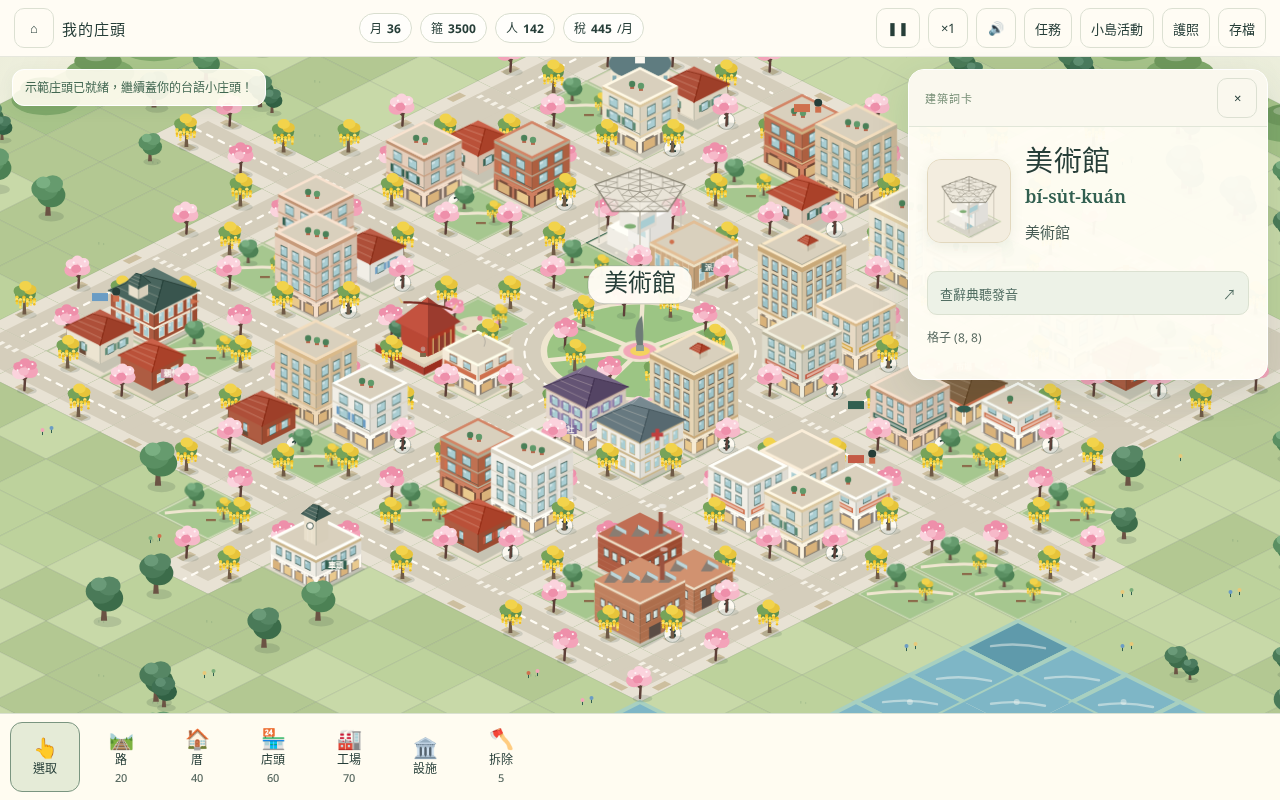
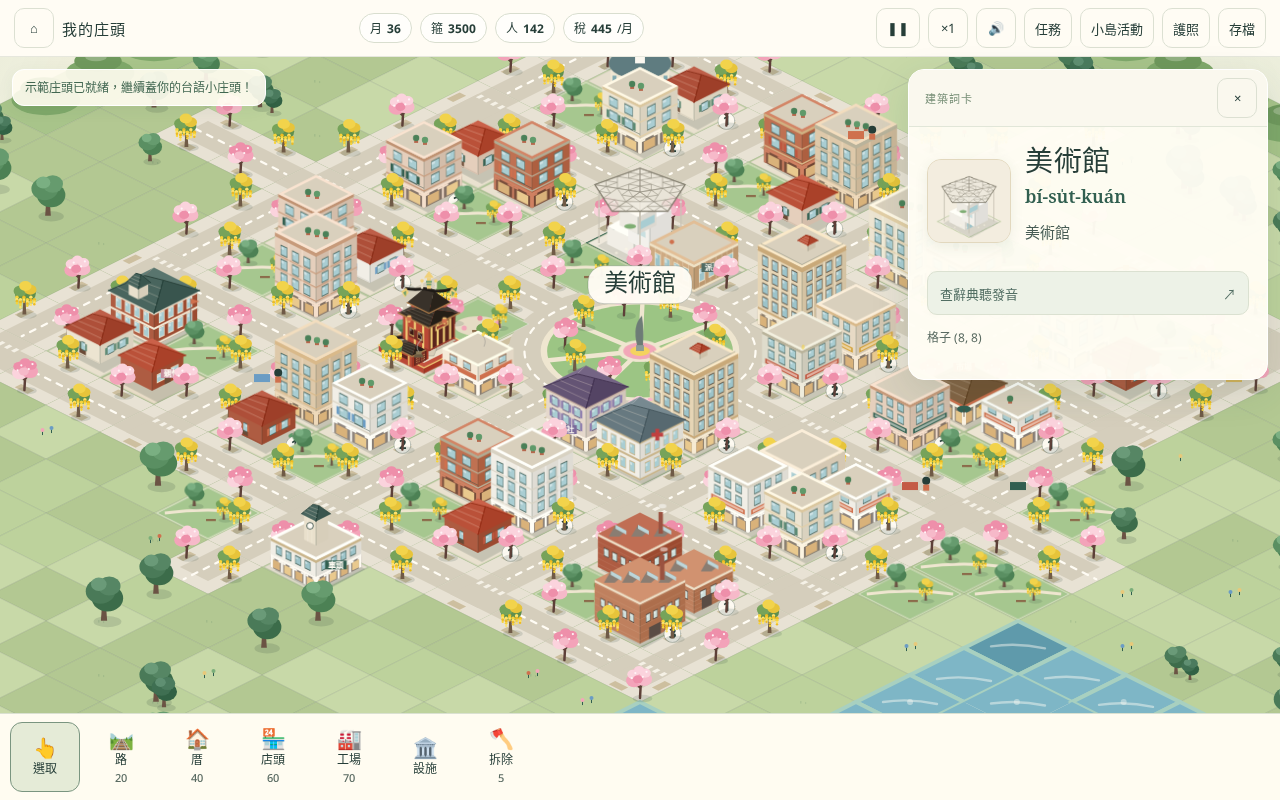
Polish 廟口 into a Tainan Confucius Temple compound sprite
Red 宮牆 courtyard, front gate, raised 大成殿 with dark 重簷燕尾脊,
gold columns/ridge ornaments, lanterns and incense — still one-tile footprint.

diff --git a/src/ui/sprites.js b/src/ui/sprites.js
@@ -390,46 +390,242 @@ function paintStation(ctx, sx, sy, tw, th) {
   label(ctx, sx + bw * 0.22, sy - 4 + bh * 0.05, '車頭');
 }
 
-function paintTemple(ctx, sx, sy, tw, th) {
-  // 孔廟-like: red enclosing wall, courtyard, hall with swallowtail roof
-  lot(ctx, sx, sy, tw, th, '#e6dccb');
-  // courtyard wall (low)
-  const wf = 0.9;
-  box(ctx, sx, sy, tw, th, wf, 8, '#b84a3a', 0, '#d9cdb5');
-  drawDiamond(ctx, sx, sy - 8, tw * wf * 0.86, th * wf * 0.86, '#e8dcc2', null);
-  // big old tree in courtyard corner
-  drawTree(ctx, sx - tw * 0.24, sy - 10, 0.9, 0);
-  // main hall on a stone base
-  const h = 22;
-  const hall = box(ctx, sx + 4, sy - 8, tw, th, 0.5, h, '#c4523f');
-  face(ctx, 'R', sx + 4, sy - 8, hall.bw, hall.bh, (c) => {
-    fr(c, 0.15, 0, 0.7, 14, '#8d3a2c');
-    for (let i = 0; i < 4; i++) fr(c, 0.17 + i * 0.22, 0, 0.04, 16, '#e8c97a');
-  });
-  // swallowtail roof
-  const ry = sy - 8 - h;
-  const ax = hall.bw / 2 + 6, ay = hall.bh / 2 + 3;
-  ctx.fillStyle = '#9b3b2e';
-  ctx.beginPath();
-  ctx.moveTo(sx + 4 - ax, ry); ctx.lineTo(sx + 4, ry - ay - 8); ctx.lineTo(sx + 4 + ax, ry);
-  ctx.lineTo(sx + 4, ry + ay); ctx.closePath(); ctx.fill();
-  ctx.fillStyle = '#c4523f';
-  ctx.beginPath();
-  ctx.moveTo(sx + 4 - ax, ry); ctx.lineTo(sx + 4, ry - ay - 8); ctx.lineTo(sx + 4, ry + ay); ctx.closePath(); ctx.fill();
-  // curved ridge with swallowtails
-  ctx.strokeStyle = '#7a2c22'; ctx.lineWidth = 2.2;
-  ctx.beginPath();
-  ctx.moveTo(sx + 4 - ax * 0.75, ry - ay * 0.45 - 12);
-  ctx.quadraticCurveTo(sx + 4, ry - ay - 4, sx + 4 + ax * 0.75, ry - ay * 0.1 - 12 + ay * 0.1);
-  ctx.stroke();
-  ctx.fillStyle = '#e8c97a';
-  for (const s of [-1, 1]) {
-    const x = sx + 4 + s * ax * 0.75, y = ry - ay * (s < 0 ? 0.45 : 0.1) - 12;
-    ctx.beginPath(); ctx.moveTo(x, y); ctx.lineTo(x + s * 5, y - 6); ctx.lineTo(x + s * 2, y + 1); ctx.closePath(); ctx.fill();
+/** 重簷燕尾脊 roof — dark tiles, gold ridge, upswept swallowtail tips (孔廟 signature). */
+function swallowRoof(ctx, sx, sy, bw, bh, h, {
+  col = '#4a4038', rise = 11, tips = 9, gold = '#f0d078', double = false, tower = true,
+} = {}) {
+  const top = sy - h;
+  const ov = 5;
+  const ax = bw / 2 + ov, ay = bh / 2 + ov / 2;
+  const N = [sx, top - ay], E = [sx + ax, top], S = [sx, top + ay], W = [sx - ax, top];
+  const poly = (pts, c) => {
+    ctx.beginPath(); ctx.moveTo(...pts[0]); for (const p of pts.slice(1)) ctx.lineTo(...p);
+    ctx.closePath(); ctx.fillStyle = c; ctx.fill();
+  };
+  // lower eave (outer) — flat-ish hip
+  const lowRise = Math.max(4, rise * 0.4);
+  const lr1 = [sx - ax * 0.2, top - lowRise - ay * 0.08];
+  const lr2 = [sx + ax * 0.2, top - lowRise + ay * 0.08];
+  poly([N, E, lr2, lr1], shade(col, 6));
+  poly([W, N, lr1], shade(col, 14));
+  poly([W, S, lr2, lr1], shade(col, -10));
+  poly([S, E, lr2], shade(col, -26));
+  // tile courses
+  ctx.strokeStyle = 'rgba(255,240,220,0.2)'; ctx.lineWidth = 0.7;
+  for (let i = 1; i < 5; i++) {
+    const t = i / 5;
+    ctx.beginPath();
+    ctx.moveTo(W[0] + (lr1[0] - W[0]) * t, W[1] + (lr1[1] - W[1]) * t);
+    ctx.lineTo(S[0] + (lr2[0] - S[0]) * t, S[1] + (lr2[1] - S[1]) * t);
+    ctx.stroke();
   }
-  // incense burner
-  ctx.fillStyle = '#7a6a4a'; ctx.fillRect(sx - 4, sy + 2, 6, 4);
-  ctx.fillStyle = 'rgba(200,200,200,0.5)'; ctx.beginPath(); ctx.arc(sx - 1, sy - 2, 2.4, 0, Math.PI * 2); ctx.fill();
+  // eave underside trim (warm wood)
+  ctx.strokeStyle = '#a87848'; ctx.lineWidth = 1.4;
+  ctx.beginPath(); ctx.moveTo(...W); ctx.lineTo(...S); ctx.lineTo(...E); ctx.stroke();
+
+  if (double) {
+    // vertical gap so 重簷 reads clearly
+    const lift = lowRise + 6;
+    const uax = ax * 0.7, uay = ay * 0.7;
+    const uTop = top - lift;
+    const uN = [sx, uTop - uay], uE = [sx + uax, uTop], uS = [sx, uTop + uay], uW = [sx - uax, uTop];
+    // red wall band between eaves (visible 重簷 gap)
+    ctx.fillStyle = '#c4523f';
+    ctx.beginPath();
+    ctx.moveTo(sx - uax * 0.85, uTop + 2);
+    ctx.lineTo(sx + uax * 0.85, uTop + 2);
+    ctx.lineTo(sx + ax * 0.55, top - lowRise - 1);
+    ctx.lineTo(sx - ax * 0.55, top - lowRise - 1);
+    ctx.closePath(); ctx.fill();
+    const urise = rise + 2;
+    const ur1 = [sx - uax * 0.22, uTop - urise - uay * 0.1];
+    const ur2 = [sx + uax * 0.22, uTop - urise + uay * 0.1];
+    poly([uN, uE, ur2, ur1], shade(col, 10));
+    poly([uW, uN, ur1], shade(col, 18));
+    poly([uW, uS, ur2, ur1], shade(col, -6));
+    poly([uS, uE, ur2], shade(col, -22));
+    ctx.strokeStyle = '#a87848'; ctx.lineWidth = 1.2;
+    ctx.beginPath(); ctx.moveTo(...uW); ctx.lineTo(...uS); ctx.lineTo(...uE); ctx.stroke();
+    drawSwallowRidge(ctx, sx, uTop, uax, uay, urise, tips + 2, gold, tower);
+  } else {
+    drawSwallowRidge(ctx, sx, top, ax, ay, rise, tips, gold, tower);
+  }
+}
+
+function drawSwallowRidge(ctx, sx, top, ax, ay, rise, tips, gold, tower) {
+  const r1 = [sx - ax * 0.22, top - rise - ay * 0.1];
+  const r2 = [sx + ax * 0.22, top - rise + ay * 0.1];
+  // dark ridge beam
+  ctx.strokeStyle = '#2a2420'; ctx.lineWidth = 2.8; ctx.lineCap = 'round';
+  ctx.beginPath(); ctx.moveTo(...r1); ctx.lineTo(...r2); ctx.stroke();
+  // gold overlay ridge
+  ctx.strokeStyle = gold; ctx.lineWidth = 1.4;
+  ctx.beginPath(); ctx.moveTo(...r1); ctx.lineTo(...r2); ctx.stroke();
+
+  // dramatically upswept 燕尾 tips
+  const tipL = [sx - ax * 1.05, top - ay * 0.02 - tips];
+  const tipR = [sx + ax * 1.05, top + ay * 0.02 - tips];
+  const midL = [sx - ax * 0.58, top - rise * 0.45 - ay * 0.08];
+  const midR = [sx + ax * 0.58, top - rise * 0.45 + ay * 0.08];
+  ctx.strokeStyle = '#1e1a16'; ctx.lineWidth = 3.0;
+  ctx.beginPath();
+  ctx.moveTo(tipL[0], tipL[1]);
+  ctx.quadraticCurveTo(midL[0] - 2, midL[1] - 6, r1[0], r1[1]);
+  ctx.lineTo(r2[0], r2[1]);
+  ctx.quadraticCurveTo(midR[0] + 2, midR[1] - 6, tipR[0], tipR[1]);
+  ctx.stroke();
+  // cream/gold tip fins
+  for (const [tip, dir] of [[tipL, -1], [tipR, 1]]) {
+    ctx.fillStyle = gold;
+    ctx.beginPath();
+    ctx.moveTo(tip[0], tip[1] - 1);
+    ctx.lineTo(tip[0] + dir * 5, tip[1] + 3);
+    ctx.lineTo(tip[0] + dir * 1.5, tip[1] + 9);
+    ctx.lineTo(tip[0] - dir * 2.5, tip[1] + 4);
+    ctx.closePath(); ctx.fill();
+    ctx.fillStyle = '#5f9a6a';
+    ctx.beginPath();
+    ctx.moveTo(tip[0], tip[1] + 2);
+    ctx.lineTo(tip[0] + dir * 3, tip[1] + 4);
+    ctx.lineTo(tip[0] + dir * 0.5, tip[1] + 8);
+    ctx.closePath(); ctx.fill();
+  }
+  // 通天筒 / 寶塔 ridge ornament
+  if (tower) {
+    const cx = (r1[0] + r2[0]) / 2, cy = (r1[1] + r2[1]) / 2 - 1;
+    ctx.fillStyle = gold;
+    ctx.fillRect(cx - 2, cy - 11, 4, 11);
+    ctx.beginPath();
+    ctx.moveTo(cx - 5, cy - 11); ctx.lineTo(cx, cy - 18); ctx.lineTo(cx + 5, cy - 11);
+    ctx.closePath(); ctx.fill();
+    ctx.fillStyle = '#5f9a6a';
+    ctx.fillRect(cx - 3, cy - 8, 6, 1.8);
+    ctx.fillRect(cx - 2.5, cy - 5, 5, 1.5);
+    // twin 通天筒
+    for (const dx of [-7, 7]) {
+      ctx.fillStyle = '#e8e0c8';
+      ctx.fillRect(cx + dx - 1.2, cy - 7, 2.4, 7);
+      ctx.fillStyle = gold;
+      ctx.beginPath(); ctx.arc(cx + dx, cy - 8, 1.8, 0, Math.PI * 2); ctx.fill();
+    }
+  }
+}
+
+function paintTemple(ctx, sx, sy, tw, th) {
+  // 臺南孔廟 inspired compound in ONE tile:
+  // cream courtyard, red 宮牆, front 大成門, raised 大成殿 with 重簷燕尾脊.
+  lot(ctx, sx, sy, tw, th, '#ebe1cc');
+  shadow(ctx, sx, sy, tw, th, 0.84, 0.12);
+
+  const WALL = '#c4523f';
+  const WALL_DK = '#9b3b2e';
+  const GOLD = '#f0d078';
+
+  // low red enclosing wall — perimeter only, open cream courtyard
+  const wf = 0.84;
+  // draw wall as a hollow ring: outer box then punch courtyard
+  box(ctx, sx, sy, tw, th, wf, 6, WALL, 0, WALL);
+  drawDiamond(ctx, sx, sy - 6, tw * wf * 0.78, th * wf * 0.78, '#ebe1cc', null);
+  // cream coping on wall top edge
+  ctx.strokeStyle = GOLD; ctx.lineWidth = 1.2;
+  const wax = tw * wf / 2, way = th * wf / 2;
+  ctx.beginPath();
+  ctx.moveTo(sx, sy - 6 - way); ctx.lineTo(sx + wax, sy - 6);
+  ctx.lineTo(sx, sy - 6 + way); ctx.lineTo(sx - wax, sy - 6); ctx.closePath();
+  ctx.stroke();
+
+  // old tree in back-left courtyard corner
+  drawTree(ctx, sx - tw * 0.2, sy - 16, 0.68, 2);
+
+  // raised stone 臺基 under the hall
+  const plat = 0.55;
+  drawDiamond(ctx, sx + 3, sy - 11, tw * plat, th * plat, '#cfc3ad', 'rgba(38,62,56,0.2)');
+  drawDiamond(ctx, sx + 3, sy - 13, tw * plat * 0.9, th * plat * 0.9, '#e4d9c4', null);
+  // front steps onto platform
+  ctx.fillStyle = '#d8cdb8';
+  ctx.beginPath();
+  ctx.moveTo(sx + 3 - 10, sy - 3); ctx.lineTo(sx + 3 + 10, sy - 3);
+  ctx.lineTo(sx + 3 + 7, sy + 5); ctx.lineTo(sx + 3 - 7, sy + 5);
+  ctx.closePath(); ctx.fill();
+  ctx.strokeStyle = 'rgba(38,62,56,0.25)'; ctx.lineWidth = 0.8; ctx.stroke();
+
+  // front gate 大成門 — sits clearly in front, own swallowtail roof
+  const gx = sx - 12, gy = sy + 8;
+  const gate = box(ctx, gx, gy, tw, th, 0.3, 13, WALL);
+  face(ctx, 'R', gx, gy, gate.bw, gate.bh, (c) => {
+    fr(c, 0.12, 0, 0.76, 11, '#5a241c');
+    // twin doors
+    fr(c, 0.2, 0, 0.28, 10, '#7a3428');
+    fr(c, 0.52, 0, 0.28, 10, '#7a3428');
+    for (let i = 0; i < 3; i++) for (let j = 0; j < 3; j++) {
+      fr(c, 0.26 + i * 0.08, 2 + j * 2.2, 0.035, 0.8, GOLD);
+      fr(c, 0.58 + i * 0.08, 2 + j * 2.2, 0.035, 0.8, GOLD);
+    }
+    fr(c, 0.22, 10.5, 0.56, 1.8, GOLD);
+  });
+  face(ctx, 'L', gx, gy, gate.bw, gate.bh, (c) => {
+    fr(c, 0.15, 0, 0.08, 12, GOLD);
+    fr(c, 0.75, 0, 0.08, 12, GOLD);
+    fr(c, 0.3, 5, 0.4, 3.5, '#5a241c');
+  });
+  swallowRoof(ctx, gx, gy, gate.bw, gate.bh, 13, {
+    col: '#3f3830', rise: 7, tips: 8, gold: GOLD, double: false, tower: false,
+  });
+
+  // main hall 大成殿
+  const hx = sx + 5, hy = sy - 13;
+  const hh = 26;
+  const hall = box(ctx, hx, hy, tw, th, 0.48, hh, WALL);
+  face(ctx, 'L', hx, hy, hall.bw, hall.bh, (c) => {
+    band(c, 0, WALL_DK, 1.6);
+    for (let i = 0; i < 3; i++) fr(c, 0.1 + i * 0.32, 0, 0.08, hh - 2, GOLD);
+    fr(c, 0.22, 5, 0.56, 10, '#7a2e24');
+    windowsRow(c, 8, 6, 2, '#3a1814', GOLD, 0.18);
+    band(c, hh - 3, GOLD, 2.2);
+  });
+  face(ctx, 'R', hx, hy, hall.bw, hall.bh, (c) => {
+    fr(c, 0.04, 0, 0.92, hh - 2, '#5a241c');
+    for (let i = 0; i < 4; i++) fr(c, 0.06 + i * 0.24, 0, 0.08, hh - 1, GOLD);
+    // 匾額
+    fr(c, 0.25, hh - 9, 0.5, 5, GOLD);
+    fr(c, 0.3, hh - 8, 0.4, 3, WALL_DK);
+    band(c, 0, WALL_DK, 1.5);
+  });
+
+  // 重簷燕尾脊 — dark roof vs red walls is the key silhouette
+  swallowRoof(ctx, hx, hy, hall.bw, hall.bh, hh, {
+    col: '#3f3830', rise: 11, tips: 12, gold: GOLD, double: true, tower: true,
+  });
+
+  // red lanterns under eaves
+  for (const [lx, ly] of [[hx - hall.bw * 0.38, hy - hh + 5], [hx + hall.bw * 0.3, hy - hh + 7]]) {
+    ctx.strokeStyle = 'rgba(60,40,30,0.5)'; ctx.lineWidth = 0.7;
+    ctx.beginPath(); ctx.moveTo(lx, ly - 5); ctx.lineTo(lx, ly - 1); ctx.stroke();
+    ctx.fillStyle = '#cf704d';
+    ctx.beginPath(); ctx.ellipse(lx, ly + 1, 2.6, 3.4, 0, 0, Math.PI * 2); ctx.fill();
+    ctx.fillStyle = GOLD;
+    ctx.fillRect(lx - 1.8, ly - 2.2, 3.6, 1.5);
+    ctx.fillRect(lx - 1.2, ly + 3.6, 2.4, 1.2);
+  }
+
+  // incense burner in courtyard (front-left of hall)
+  ctx.fillStyle = '#6a5a42';
+  ctx.beginPath();
+  ctx.moveTo(sx - 9, sy + 3); ctx.lineTo(sx - 2, sy + 3); ctx.lineTo(sx - 0.5, sy + 6.5); ctx.lineTo(sx - 10.5, sy + 6.5);
+  ctx.closePath(); ctx.fill();
+  ctx.fillStyle = '#8a7a58'; ctx.fillRect(sx - 8.2, sy + 0.2, 5.8, 3.2);
+  ctx.strokeStyle = 'rgba(190,190,190,0.6)'; ctx.lineWidth = 1.1;
+  ctx.beginPath();
+  ctx.moveTo(sx - 5.5, sy + 0.2);
+  ctx.quadraticCurveTo(sx - 9, sy - 5, sx - 4, sy - 10);
+  ctx.quadraticCurveTo(sx - 1, sy - 13, sx - 3.5, sy - 16);
+  ctx.stroke();
+
+  // greenery by gate
+  ctx.fillStyle = '#5f9a6a';
+  ctx.beginPath(); ctx.ellipse(sx + tw * 0.26, sy + 9, 4.8, 2.3, 0, 0, Math.PI * 2); ctx.fill();
+  ctx.fillStyle = '#f2a7b8';
+  ctx.beginPath(); ctx.arc(sx + tw * 0.26, sy + 7.4, 1.5, 0, Math.PI * 2); ctx.fill();
 }
 
 function paintMarket(ctx, sx, sy, tw, th) {

diff --git a/src/main.js b/src/main.js
@@ -8,7 +8,7 @@ import {
 import { listSlots, saveToSlot, loadFromSlot, exportCode, importCode } from './engine/save.js';
 import { DIFFICULTIES } from './engine/tasks.js';
 import { createRenderer } from './ui/render.js';
-import { cardIllustration, listSpriteKeys, getZoneSprite, getFacilitySprite, ANCHOR_Y, SPRITE_W, PAINT_TW, PAINT_TH } from './ui/sprites.js';
+import { cardIllustration, listSpriteKeys, getZoneSprite, getFacilitySprite, clearSpriteCache, ANCHOR_Y, SPRITE_W, PAINT_TW, PAINT_TH } from './ui/sprites.js';
 
 /** QA: every building sprite must stay inside its own tile footprint (no overlap with neighbours). */
 function checkSpriteFootprints() {
@@ -258,6 +258,8 @@ function startPlay() {
     },
     getRenderer: () => renderer,
     checkSpriteFootprints,
+    getFacilitySprite,
+    clearSpriteCache,
   };
 }
 
@@ -285,6 +287,8 @@ function loop() {
     },
     getRenderer: () => renderer,
     checkSpriteFootprints,
+    getFacilitySprite,
+    clearSpriteCache,
   };
 }
 
